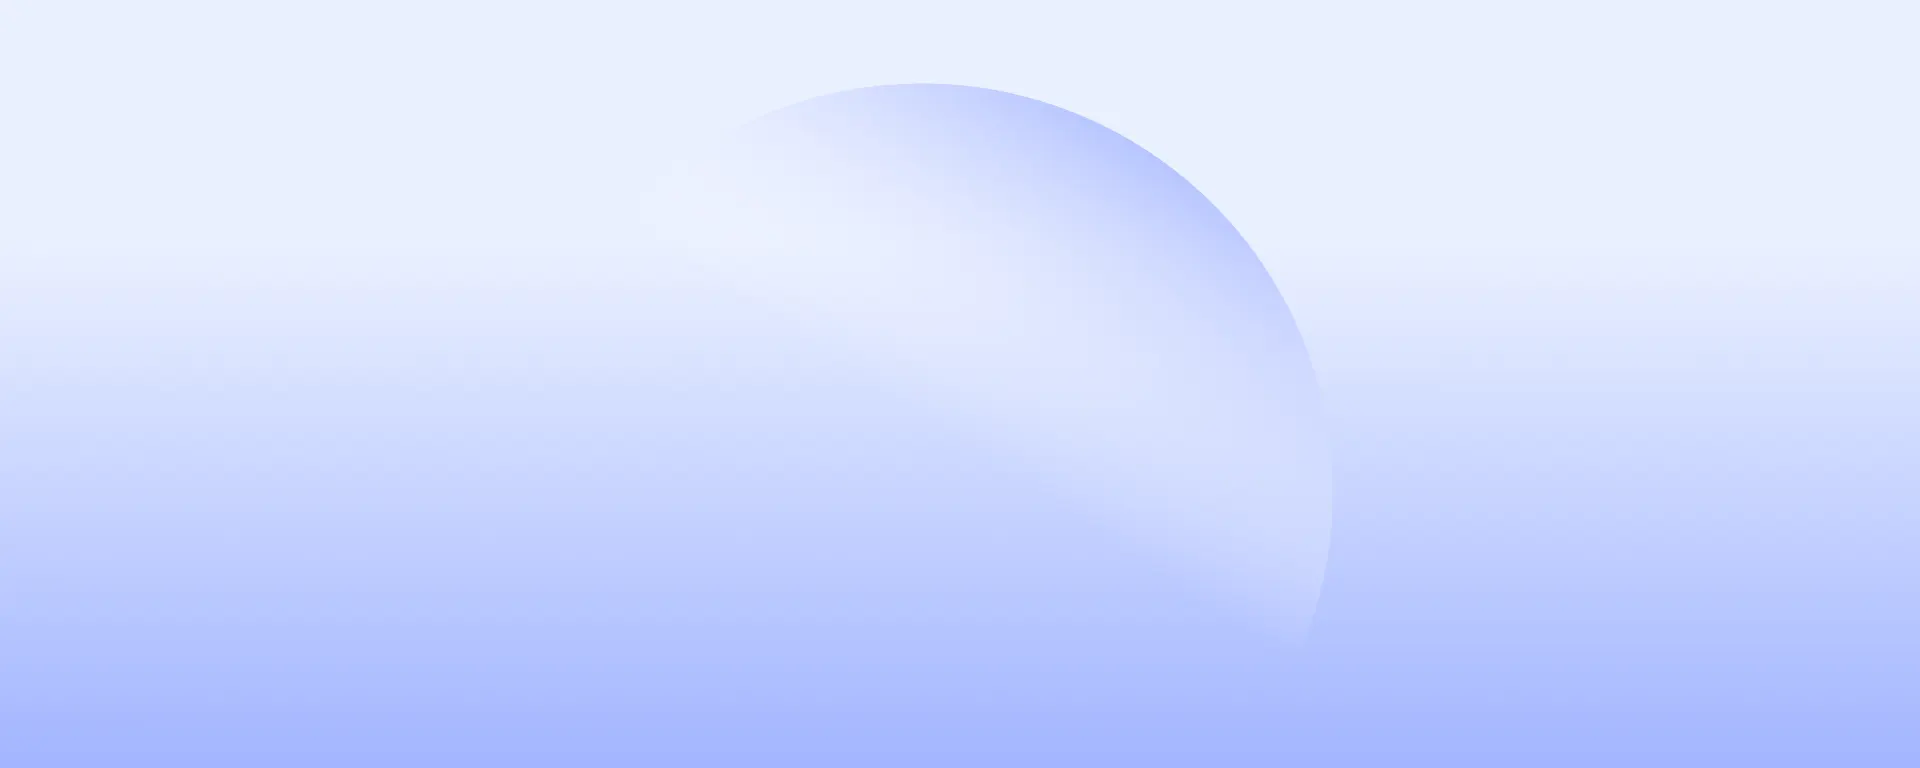
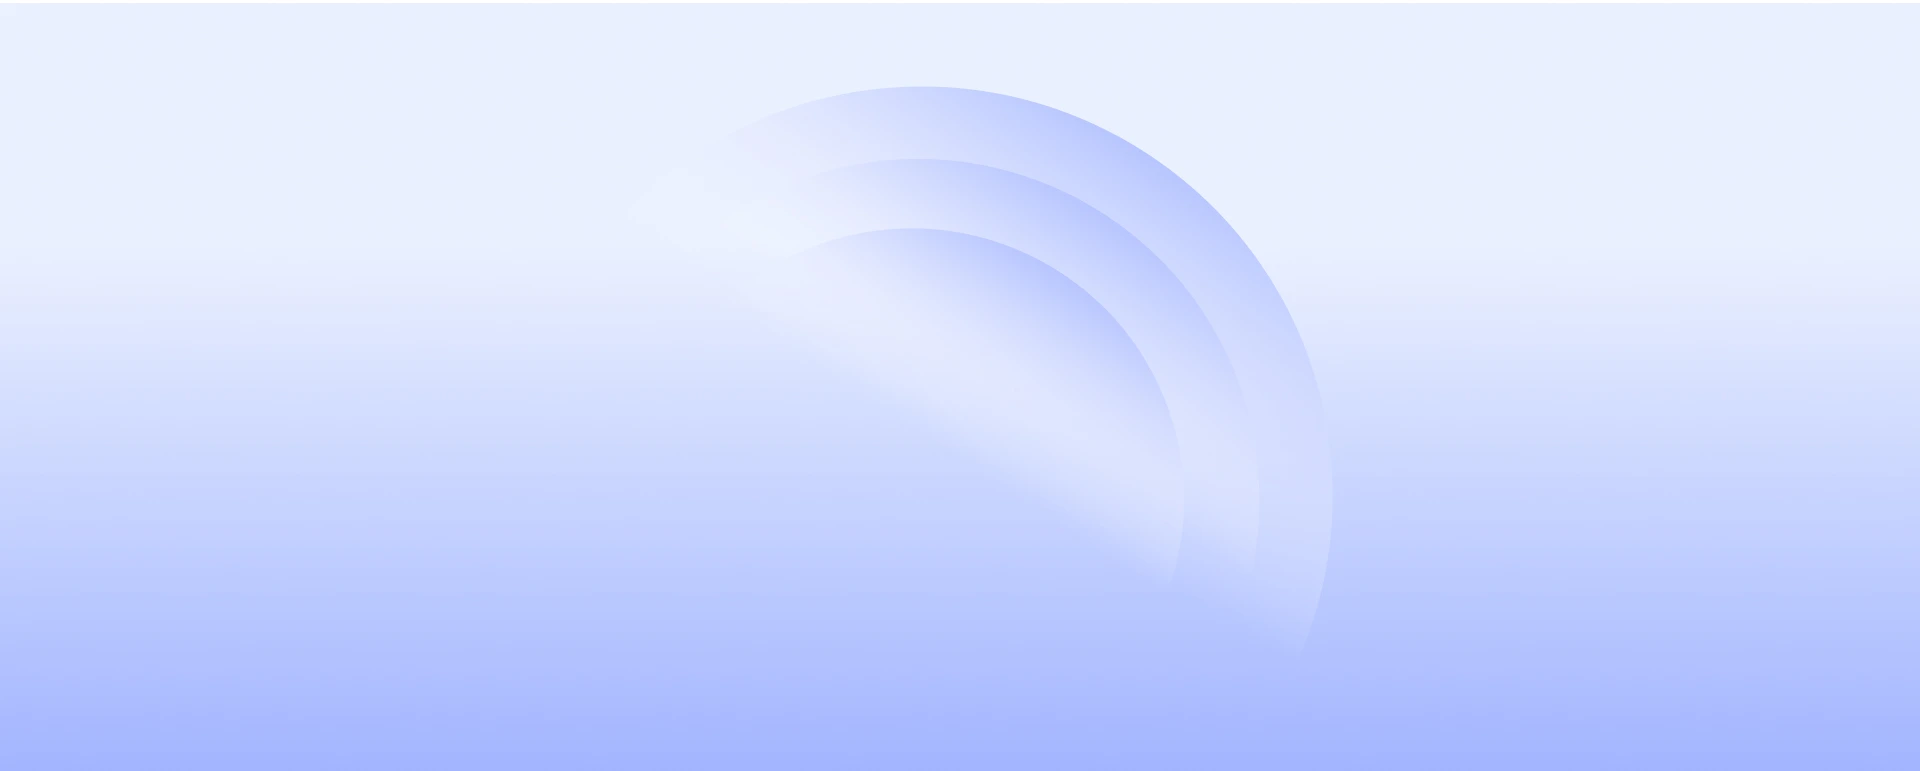
hii

Changed region(s): [[0.4688, 0.2812, 0.5938, 0.4688]]

diff --git a/src/app/page.tsx b/src/app/page.tsx
@@ -50,15 +50,20 @@ export default function Home() {
       <section className="banner mb">
         <div className="container">
           <div className="text-center">
-            <h1>
+            <h1 data-aos="fade-up" data-aos-delay="100">
               Find Your <span className="focus">Focus</span>. Find Your{" "}
               <span className="focus">Voice</span>.
             </h1>
-            <p>
+            <p data-aos="fade-up" data-aos-delay="200">
               A serene and safe digital sanctuary where students master the
               Cambridge curriculum <br /> through mindful mentorship.
             </p>
-            <button className="btn btn-primary" type="button">
+            <button
+              className="btn btn-primary"
+              type="button"
+              data-aos="zoom-in"
+              data-aos-delay="300"
+            >
               Experience the difference
             </button>
           </div>
@@ -68,13 +73,13 @@ export default function Home() {
       {/* Frame Section */}
       <section className="frame mb">
         <div className="container">
-          <h2>The Framework for Your Focus & Voice</h2>
+          <h2 data-aos="fade-up" data-aos-delay="500">The Framework for Your Focus & Voice</h2>
           <div className="all-text">
             <div className="row">
               <div className="col-lg-4 col-md-5 col-12">
                 <div className="cir-img">
-                  <Image
-                    src="/assets/img/circle.webp"
+                  <Image data-aos="zoom-in" data-aos-delay="700"
+                    src="/assets/img/circles.webp"
                     alt="Circle"
                     className="img-fluid"
                     width={500}
@@ -85,15 +90,15 @@ export default function Home() {
               <div className="col-lg-1 col-md-1 col-1"></div>
               <div className="col-lg-7 col-md-6 col-12">
                 <div className="fram-text">
-                  <h3 className="cam">The Cambridge Compass</h3>
-                  <p>
+                  <h3 className="cam" data-aos="fade-up" data-aos-delay="100">The Cambridge Compass</h3>
+                  <p data-aos="fade-up" data-aos-delay="150">
                     The pinnacle of learning. Students synthesize knowledge to
                     produce original work, formulate new hypotheses, and design
                     innovative solutions.
                   </p>
                   <div className="row">
                     <div className="col-lg-4 col-md-4 col-4">
-                      <div className="green">
+                      <div className="green" data-aos="fade-up" data-aos-delay="250">
                         <h4 className="assetx">
                           Assess & <br /> Strategize
                         </h4>
@@ -103,7 +108,7 @@ export default function Home() {
                       </div>
                     </div>
                     <div className="col-lg-4 col-md-4 col-4">
-                      <div className="green bg-grey">
+                      <div className="green bg-grey" data-aos="fade-up" data-aos-delay="300">
                         <h4 className="assetx">
                           Engage & <br /> Build Concepts
                         </h4>
@@ -113,7 +118,7 @@ export default function Home() {
                       </div>
                     </div>
                     <div className="col-lg-4 col-md-4 col-4">
-                      <div className="green bg-grey">
+                      <div className="green bg-grey" data-aos="fade-up" data-aos-delay="350">
                         <h4 className="assetx">
                           Practice & <br /> Master
                         </h4>
@@ -150,7 +155,7 @@ export default function Home() {
                   text: `Face your exams with unshakable confidence, powered by our Targeted Progression Test Prep and Comprehensive Checkpoint Prep.`,
                 },
               ].map((item, idx) => (
-                <div key={idx} className="col-lg-4 col-md-4 col-4">
+                <div key={idx} className="col-lg-4 col-md-4 col-4" data-aos="fade-right" data-aos-delay="100">
                   <div className="gfd">
                     <h4 className="assetx">{item.title}</h4>
                     <p>{item.text}</p>
@@ -167,18 +172,18 @@ export default function Home() {
         <div className="container">
           <div className="blu-box">
             <div className="text-center">
-              <h2>Tailored Guidance for Your Child&apos;s Cambridge Stage</h2>
-              <p>
+              <h2 data-aos="fade-down" data-aos-delay="100">Tailored Guidance for Your Child&apos;s Cambridge Stage</h2>
+              <p data-aos="fade-down" data-aos-delay="150">
                 We understand that a student&apos;s needs evolve dramatically as they progress through the Cambridge curriculum...
               </p>
             </div>
             <div className="blu-box">
               <div className="row">
-                <div className="col-lg-6 col-md-6 col-12">
+                <div className="col-lg-6 col-md-6 col-12" data-aos="fade-right" data-aos-delay="200">
                   <div className="bg-white bh-c">
                     <h4 className="assetx">Cambridge Primary (Stages 4-6)</h4>
                     <p><b>Building a Love for Learning</b></p>
-                    <p>For our youngest learners, we focus on sparking curiosity...</p>
+                    <p>For our youngest learners, we focus on sparking curiosity and building unshakable confidence. Our mentors create a nurturing environment where foundational concepts in English, Maths, and Science are explored in an engaging, interactive way.</p>
                     <button>
                       <span className="text">View More</span>
                       <span>
@@ -193,11 +198,11 @@ export default function Home() {
                   </div>
                 </div>
 
-                <div className="col-lg-6 col-md-6 col-12">
+                <div className="col-lg-6 col-md-6 col-12" data-aos="fade-left" data-aos-delay="250">
                   <div className="bg-white bh-c">
                     <h4 className="assetx">Cambridge Lower Secondary (Stages 7-9)</h4>
                     <p><b>Deepening Knowledge, Building Skills</b></p>
-                    <p>As students advance, we shift focus to developing critical thinking...</p>
+                    <p>As students advance, we shift focus to developing critical thinking and analytical skills. We guide them through the increasing rigor of English, Maths, and Science, preparing them for the challenges of IGCSE and beyond.</p>
                     <button>
                       <span className="text">View More</span>
                       <span>
@@ -224,17 +229,17 @@ export default function Home() {
             <div className="row">
               <div className="col-lg-8 col-md-6 col-12">
                 <div className="lim-txt text-white">
-                  <h3 id="lij">Limited Seats. Endless Possibilities.</h3>
-                  <p className="text-white">
+                  <h3 id="lij" data-aos="fade-left" data-aos-delay="100">Limited Seats. Endless Possibilities.</h3>
+                  <p className="text-white" data-aos="fade-left" data-aos-delay="150">
                     Drop your details now and get a call from our expert counsellors!
                   </p>
-                  <button className="btn btn-book" type="button">
+                  <button className="btn btn-book" type="button" data-aos="zoom-in" data-aos-delay="250">
                     Book a consultation
                   </button>
                 </div>
               </div>
               <div className="col-lg-4 col-md-3 col-12">
-                <div className="lim-img">
+                <div className="lim-img" data-aos="fade-up" data-aos-delay="300">
                   <Image
                     src="/assets/img/girl.webp"
                     alt="Girl"
@@ -254,9 +259,9 @@ export default function Home() {
       <section className="promise mb">
         <div className="container">
           <div className="pro-i">
-            <h2>Our Promise</h2>
-            <p className="learning">Learning experience built on Four pillars</p>
-            <div className="pt-i">
+            <h2 data-aos="fade-down" data-aos-delay="100">Our Promise</h2>
+            <p className="learning" data-aos="fade-down" data-aos-delay="150">Learning experience built on Four pillars</p>
+            <div className="pt-i" data-aos="zoom-in" data-aos-delay="200">
               <Image
                 src="/assets/img/arrow-im.png"
                 alt="Arrow"
@@ -271,12 +276,12 @@ export default function Home() {
             <div className="row">
               <div className="col-lg-6 col-md-6 col-12">
                 <div className="pro-text">
-                  <p>
+                  <p data-aos="fade-left" data-aos-delay="250">
                     True education is not a race for grades; it is the art of building a confident,
                     curious, and resilient mind.
                   </p>
 
-                  <div className="accordions">
+                  <div className="accordions" data-aos="fade-left" data-aos-delay="300">
                     {accordionData.map((item, index) => (
                       <div key={index} className="accordion-items">
                         <div
@@ -297,7 +302,17 @@ export default function Home() {
                       </div>
                     ))}
                   </div>
-
+                </div>
+              </div>
+              <div className="col-lg-6 col-md-6 col-12">
+                <div className="nexy_div_img text-center">
+                  <Image
+                    src="/assets/img/mac.webp"
+                    alt="Arrow"
+                    width={400}
+                    height={400}
+                    className="img-fluid"
+                  />
                 </div>
               </div>
             </div>
@@ -605,17 +620,17 @@ export default function Home() {
             <div className="col-lg-1 col-md-1 col-1"></div>
             <div className="col-lg-5 col-md-5 col-12">
               <div className="faq-sdeimg">
-                <div>
-                <h3>Ready to Replace Academic
-                  Anxiety with Calm Confidence?</h3>
-                <p>
-                  The best way to understand the Study Monks difference is to experience it.</p>
+                <div className="mt-3">
+                  <h3>Ready to Replace Academic
+                    Anxiety with Calm Confidence?</h3>
+                  <p>
+                    The best way to understand the Study Monks difference is to experience it.</p>
 
-                <p>Schedule a complimentary, no-obligation Clarity Session to speak with one of our academic counselors. Lets build a personalized learning path for your child, together.
-                </p>
-                <button className="btn btn-books" type="button">Schedule Your Free <br />
-                  Clarity Session</button>
-                  </div>
+                  <p>Schedule a complimentary, no-obligation Clarity Session to speak with one of our academic counselors. Lets build a personalized learning path for your child, together.
+                  </p>
+                  <button className="btn btn-books" type="button">Schedule Your Free <br />
+                    Clarity Session</button>
+                </div>
                 <div className="ijhg">
                   <Image
                     src="/assets/img/mummy.webp"

diff --git a/src/app/layout.tsx b/src/app/layout.tsx
@@ -1,6 +1,7 @@
 import type { Metadata } from "next";
 import { Geist, Geist_Mono } from "next/font/google";
 import "./globals.css";
+import { Poppins } from 'next/font/google';
 import 'bootstrap/dist/css/bootstrap.min.css';
 
 import BootstrapClient from '../app/BootstrapClient';
@@ -10,6 +11,12 @@ import BootstrapClient from '../app/BootstrapClient';
 const geistSans = Geist({
   variable: "--font-geist-sans",
   subsets: ["latin"],
+});
+
+const poppins = Poppins({
+  weight: ['400', '500', '600', '700'], // jo weight chahiye add karo
+  subsets: ['latin'],
+  display: 'swap',
 });
 
 const geistMono = Geist_Mono({
@@ -31,7 +38,7 @@ export default function RootLayout({
   return (
     <html lang="en" className="hydrated">
       {/* Apply fonts */}
-      <body className={`${geistSans.variable} ${geistMono.variable}`}>
+      <body className={`${geistSans.variable} ${geistMono.variable} ${poppins.variable}`}>
         <BootstrapClient />
         {children}
       </body>

diff --git a/src/app/globals.css b/src/app/globals.css
@@ -121,8 +121,8 @@ h3 {
   background-repeat: no-repeat;
   background-position: center;
   background-size: cover;
-  padding: 60px 0px;
-  height: 600px;
+  padding: 100px 0px 40px;
+  height: 700px;
   display: flex;
   align-items: center;
 }
@@ -132,7 +132,7 @@ h3 {
   background-position: center;
   background-size: cover;
   padding: 20px;
-  height: 600px;
+  height: 580px;
 }
 .btn-primary {
   background-color: transparent;
@@ -216,6 +216,8 @@ h3 {
 }
 .ijhg img{
  float: right;
+ position: relative;
+ margin-top: -30px;
 }
 #lij {
   font-family: "Poppins", sans-serif;
@@ -284,7 +286,7 @@ h2 {
   color: #5988FF;
   font-size: 26px;
   border-bottom: 2px solid #000;
-  width: 48%;
+  display: inline-block;
   font-family: 'Gilroy-Bold';
 }
 
